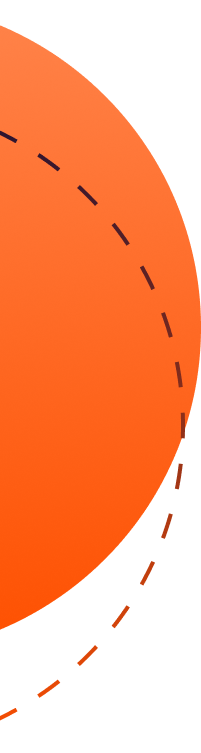
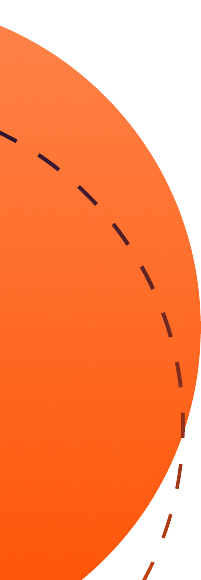
style: finalizando telas beneficios/sobre

diff --git a/web-data-viz/public/index.html b/web-data-viz/public/index.html
@@ -72,19 +72,37 @@
 
         <div class="container_quadros_beneficios">
 
-          <div>
-            <i class="bi bi-graph-up-arrow" width="16px" height="16"></i>
-            <div>Transformamos dados em Inteligência</div>
+          <div class="quadro_beneficios">
+
+            <div class="div_icone">
+              <div class="icone">
+                <i class="bi bi-graph-up-arrow" width="16px" height="16"></i>
+              </div>
+            </div>
+
+            <span>Transformamos dados em Inteligência</span>
           </div>
 
-          <div>
-            <i class="bi bi-gear-wide"></i>
-            <div>Otimizamos seus recursos e eficiência operacional</div>
-          </div>
+          <div class="quadro_beneficios">
+            
+            <div class="div_icone">
+              <div class="icone">
+                <i class="bi bi-gear-wide"></i>
+              </div>
+            </div>
 
-          <div>
-            <i class="bi bi-graph-up-arrow"></i>
-            <div>Ajudamos a tomar  decisões mais assertivas</div>
+            <span>Otimizamos seus recursos e eficiência operacional</span>
+          </div>  
+
+          <div class="quadro_beneficios"> 
+
+            <div class="div_icone">
+              <div class="icone">
+                <i class="bi bi-lightbulb"></i>
+              </div>
+            </div>
+            
+            <span>Ajudamos a tomar  decisões mais assertivas</span>
           </div>
 
         </div>
@@ -94,9 +112,21 @@
 
 
     <section class="section_sobre">
-      <h1>Sobre Nós</h1>
-      <p>Somos a <a>MobiliTech</a>,  unimos a mobilidade e a tecnologia, para otimizar o transporte urbano com <a>inteligência</a>. 
-        Através da análise de dados reais, identificamos linhas com baixa ocupação e eficiência, ajudando <a>sua</a> empresa a reduzir custos sem perder <a>qualidade.</a></p>
+
+      <div  class="div_bolas_esquerda">
+        <img src="assets/imgs/bolas sobre esquerda.png" alt="bolas esquerda" class="bolas_esquerda">
+      </div>
+       
+        <div class="container_sobre">
+          <h1>Sobre Nós</h1>
+          <p>Somos a <a>MobiliTech</a>,  unimos a mobilidade e a tecnologia, para otimizar o transporte urbano com <a>inteligência</a>. 
+          Através da análise de dados reais, identificamos linhas com baixa ocupação e eficiência, ajudando <a>sua</a> empresa a reduzir custos sem perder <a>qualidade.</a></p>
+        </div>
+
+        <div class="div_bolas_direita">
+          <img src="assets/imgs/bolas sobre direita.png" alt="bolas direita" class="bolas_direita">
+        </div>
+        
     </section>
 
 

diff --git a/web-data-viz/public/css/index.css b/web-data-viz/public/css/index.css
@@ -212,9 +212,10 @@ body {
     gap: 80px; 
 }
 
-.container_quadros_beneficios div {
-    
+
+.quadro_beneficios {
     display: flex;
+    justify-content: space-around;
     align-items: center;
     background-color: #fff;
     width: 374px;
@@ -223,34 +224,80 @@ body {
     color: rgba(254, 80, 0, 1);
     font-weight: bold;
     font-size: 30px;
-    
+    flex-direction: column;
 }
+
+.div_icone{
+    border-radius: 100%;
+    box-shadow: 0px 4px 10px  rgba(0, 0, 0, 0.25);
+    width: 100px;
+    height: 100px;
+    display: flex;
+    justify-content: center;
+    align-items: center;
+    color: rgba(103, 52, 152, 1);;
+}
+
+.icone{
+    border-radius: 100%;
+    border: 2px solid rgba(103, 52, 152, 1);
+    width: 85px;
+    height: 85px;
+    display: flex;
+    justify-content: center;
+    align-items: center;
+}
+
+.quadro_beneficios span{
+    width: 316px;
+}
+
 
 .section_sobre{
     height: 80vh;
     display: flex;
-    flex-direction: column;
     justify-content: center;
     align-items: center;
     text-align: center;
     justify-content: space-evenly;
 }
 
-.section_sobre h1{
+.container_sobre{
     display: flex;
     justify-content: center;
+    align-items: center;
+    flex-direction: column;
+    width: 100%;
+}
+
+.div_bolas_esquerda{
+    display: flex;
+    align-items: end;
+    justify-content: flex-start;
+    height: 100%;
+}
+
+.div_bolas_direita{
+    display: flex;
+    align-items: end;
+    justify-content: flex-end;
+    height: 100%;
+}
+    
+.section_sobre h1{
+    
     font-size: 64px;
     color:rgba(103, 52, 152, 1);
     margin: 0;
-    width: 10%;
+    width: 20%;
 }
 
 .section_sobre p{
     font-size: 32px;
     color:#000;
     font-weight: bold;
-    width: 50%;
     width: 1000px;
+    line-height: 60px;
 }
 
 .section_sobre p a{
